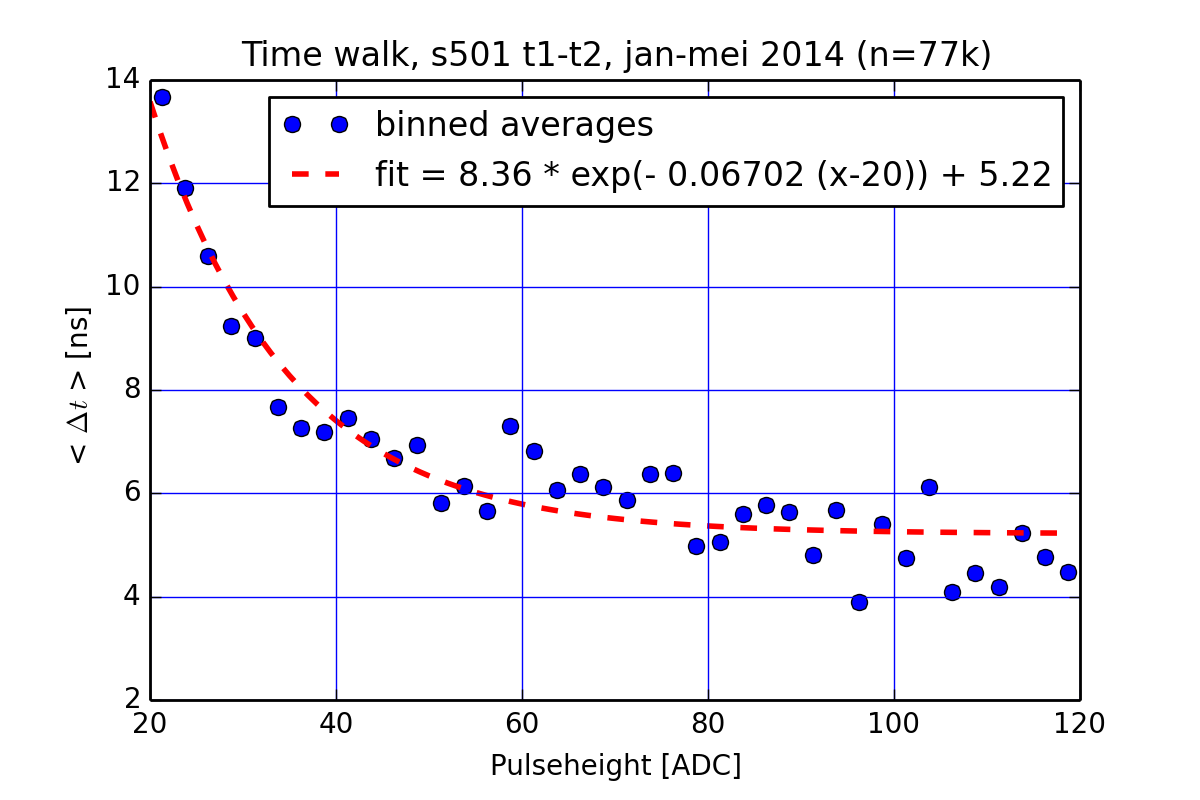
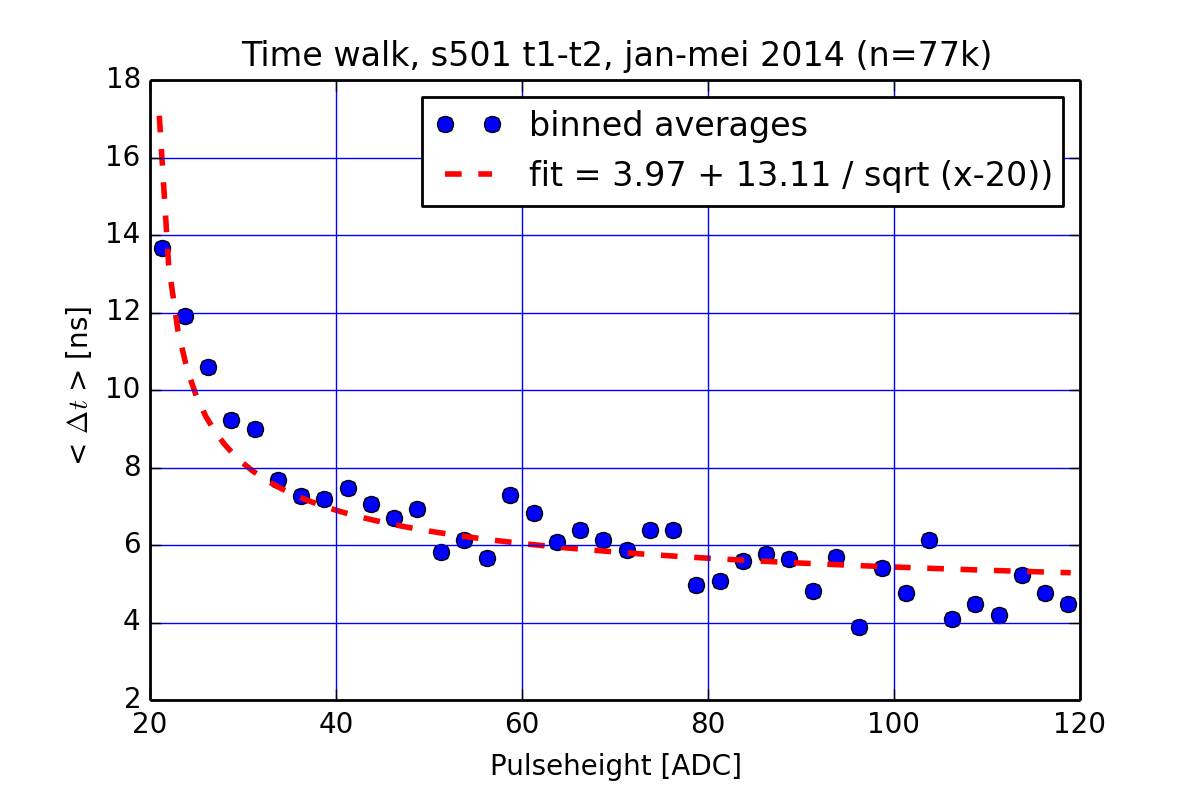
new fits

Changed region(s): [[0.0925, 0.4375, 0.8942, 0.8125], [0.0925, 0.0625, 0.8942, 0.4688], [0.0925, 0.4688, 0.1233, 0.5]]

diff --git a/timewalk/s501_time_histogram_met_walk_correctie.py b/timewalk/s501_time_histogram_met_walk_correctie.py
@@ -1,0 +1,107 @@
+"""
+Read data from station 501 and plot t1-t2 histogram
+
+Goal: recreate graphs form D.Pennink 2010
+t1-t2 from station 501, FULL YEAR 2010
+
+ph1 > TRIGGER = charged particle
+ph1 < TRIGGER = gamma
+
+"""
+
+
+import datetime
+import tables
+import sapphire.esd
+import scipy.stats
+import numpy as np
+import matplotlib.pyplot as plt
+from scipy.optimize import leastsq
+
+
+# time walk correction function
+#t_walk = lambda x: 8.36 * np.exp(-0.06702*(x-20.)) + 5.22 # fit from walk.py
+A = 50. # fit 13.11
+B = 0. # fit 3.97
+t_walk = lambda x: A / np.sqrt(x-20.) + B
+
+STATION = 501
+STATIONS = [STATION]
+START = datetime.datetime(2014,1,1)
+END = datetime.datetime(2014,2,1)
+FILENAME = 's501_mrt.h5'
+
+#
+# Pennink, 2010 p32 specifies these cutoff ADC counts
+# >200 ADC count = charged particle
+# <120 ADC counts = gamma
+# These values are consistent with a pulseheight histogram
+#
+HIGH_PH = 200
+LOW_PH = 120
+
+#
+# Open existing coincidence table.
+# Only check if "/coincidences" are in table, no other checks
+def open_existing_event_file(filename):
+    data = tables.open_file(FILENAME, 'a')
+    return data
+
+
+if __name__=='__main__':
+
+
+    phs = [21., 30., 40., 50., 100., 200., 500.]
+    for ph in phs:
+        print "t_walk (ph=%3.1f) = %1.2f" % (ph, t_walk(ph))
+
+    #data = create_new_event_file(FILENAME, STATIONS, START, END)
+    #data.close()
+    if 'data' not in globals():
+        data = open_existing_event_file(FILENAME)
+
+    events = data.root.s501.events
+
+    t1 = events.col('t1')
+    t2 = events.col('t2')
+    t3 = events.col('t3')
+    t4 = events.col('t4')
+
+    ph = events.col('pulseheights')
+    ph1 = ph[:,0]
+    ph2 = ph[:,1]
+    ph3 = ph[:,2]
+    ph4 = ph[:,3]
+
+    #bins2ns5 = arange(-201.25,202.26,2.5)
+    bins2ns5 = np.arange(-51.25,51.26,2.5)
+    bins2ns5_midden = np.arange(-50,50.1,2.5)
+
+    #
+    # TODO: 4 subplots to recreate the figure from Pennink 2010
+    #
+    grafiek = plt.figure()
+
+    # time walk correction
+    t1_corr = t1 - t_walk(ph1)
+    t2_corr = t2 - t_walk(ph2)
+    #
+    # Plot histogram for t1-t2 using event selection based on pulseheight
+    dt = t1 - t2
+    dt_corr = t1_corr - t2_corr
+
+    # gemiddelden van de gaussianfit
+    OFFSET1 = 5.
+    OFFSET2 = 0
+
+    # remove -1 and -999
+    # select events based on pulseheight
+    dt1_corr = dt_corr.compress((t1 >= 0) & (t2 >= 0) & (ph1 < LOW_PH) & (ph2 > HIGH_PH))
+    dt1 = dt.compress((t1 >= 0) & (t2 >= 0) & (ph1 < LOW_PH) & (ph2 > HIGH_PH))
+
+    print "number of events", dt1.size
+    n1, bins1, blaat1 = plt.hist(dt1-OFFSET1, bins=bins2ns5, histtype='step')
+    n2, bins2, blaat2 = plt.hist(dt1_corr-OFFSET2, bins=bins2ns5, histtype='step')
+    plt.title('s501, april 2010, delta PMT 1 - PMT 2')
+    plt.legend(['t1-t2','-walk'], loc=1)
+    plt.show()

diff --git a/timewalk/fit_clas_note02_007.py b/timewalk/fit_clas_note02_007.py
@@ -38,9 +38,8 @@ if __name__=='__main__':
     #
     # op logschaal punten niet op een rechte! Het is geen pure exponentiele functie.
     # daarom gefit met exponent EN verschuiving. Is dat het lineaire deel uit CLAS NOTE 2002-007?
-    #fitfunc1  = lambda p, x: p[0]*np.exp(-1.*p[1]*(x - 20.))+p[2]
-    fitfunc1 = lambda p,x: p[0]+p[1]/np.sqrt(x - 20.)
-    errfunc1  = lambda p, x, y: (y - fitfunc1(p, x))
+    fitfunc2  = lambda p, x: p[0]+p[1]/(x - 20.)**p[2]
+    errfunc2  = lambda p, x, y: (y - fitfunc2(p, x))
 
     #
     # calculate middle of bins for fitting and plotting
@@ -51,8 +50,8 @@ if __name__=='__main__':
     mu = -1*np.array(mu_list) # all values positive for logscale
 
     # leastsquares fit
-    init = [1.,10.]
-    out = leastsq(errfunc1, init, args=(fit_bins, mu))
+    init = [5.,1.,1.]
+    out = leastsq(errfunc2, init, args=(fit_bins, mu))
     print "fit: ",out
 
     # plot and plot fit
@@ -68,8 +67,8 @@ if __name__=='__main__':
     fit = out[0]
 
     print "fit: ", fit
-    plt.plot(np.arange(20,120,1), fitfunc1(fit, np.arange(20,120,1)),'r--', linewidth=2)
+    plt.plot(np.arange(20,120,1), fitfunc2(fit, np.arange(20,120,1)),'r--', linewidth=2)
     plt.title('Time walk, s501 t1-t2, jan-mei 2014 (n=77k)' )
-    plt.legend(['binned averages','fit = %2.2f + %2.2f / sqrt (x-20))' % (fit[0], fit[1]) ])
+    plt.legend(['binned averages','fit = %2.3f + %2.3f /(x-20.)^%2.3f  ' % (fit[0], fit[1], fit[2]) ])
     plt.savefig('time_walk.png',dpi=200)
     plt.show()
